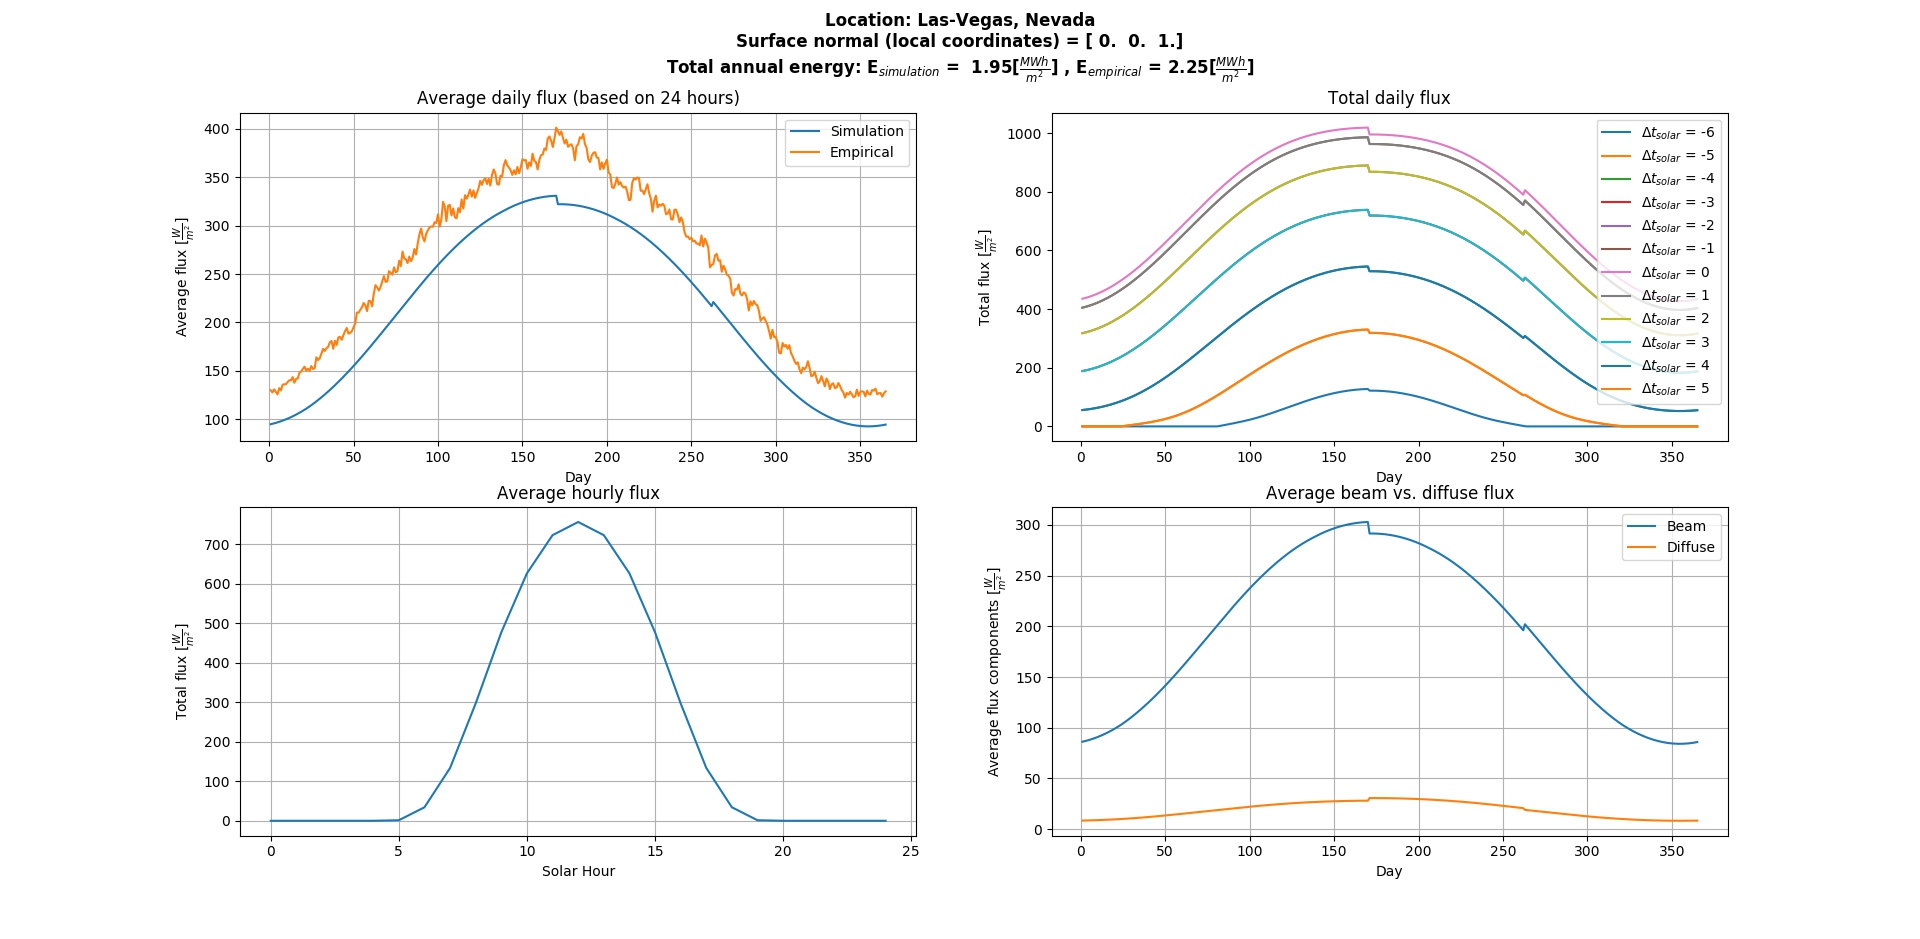
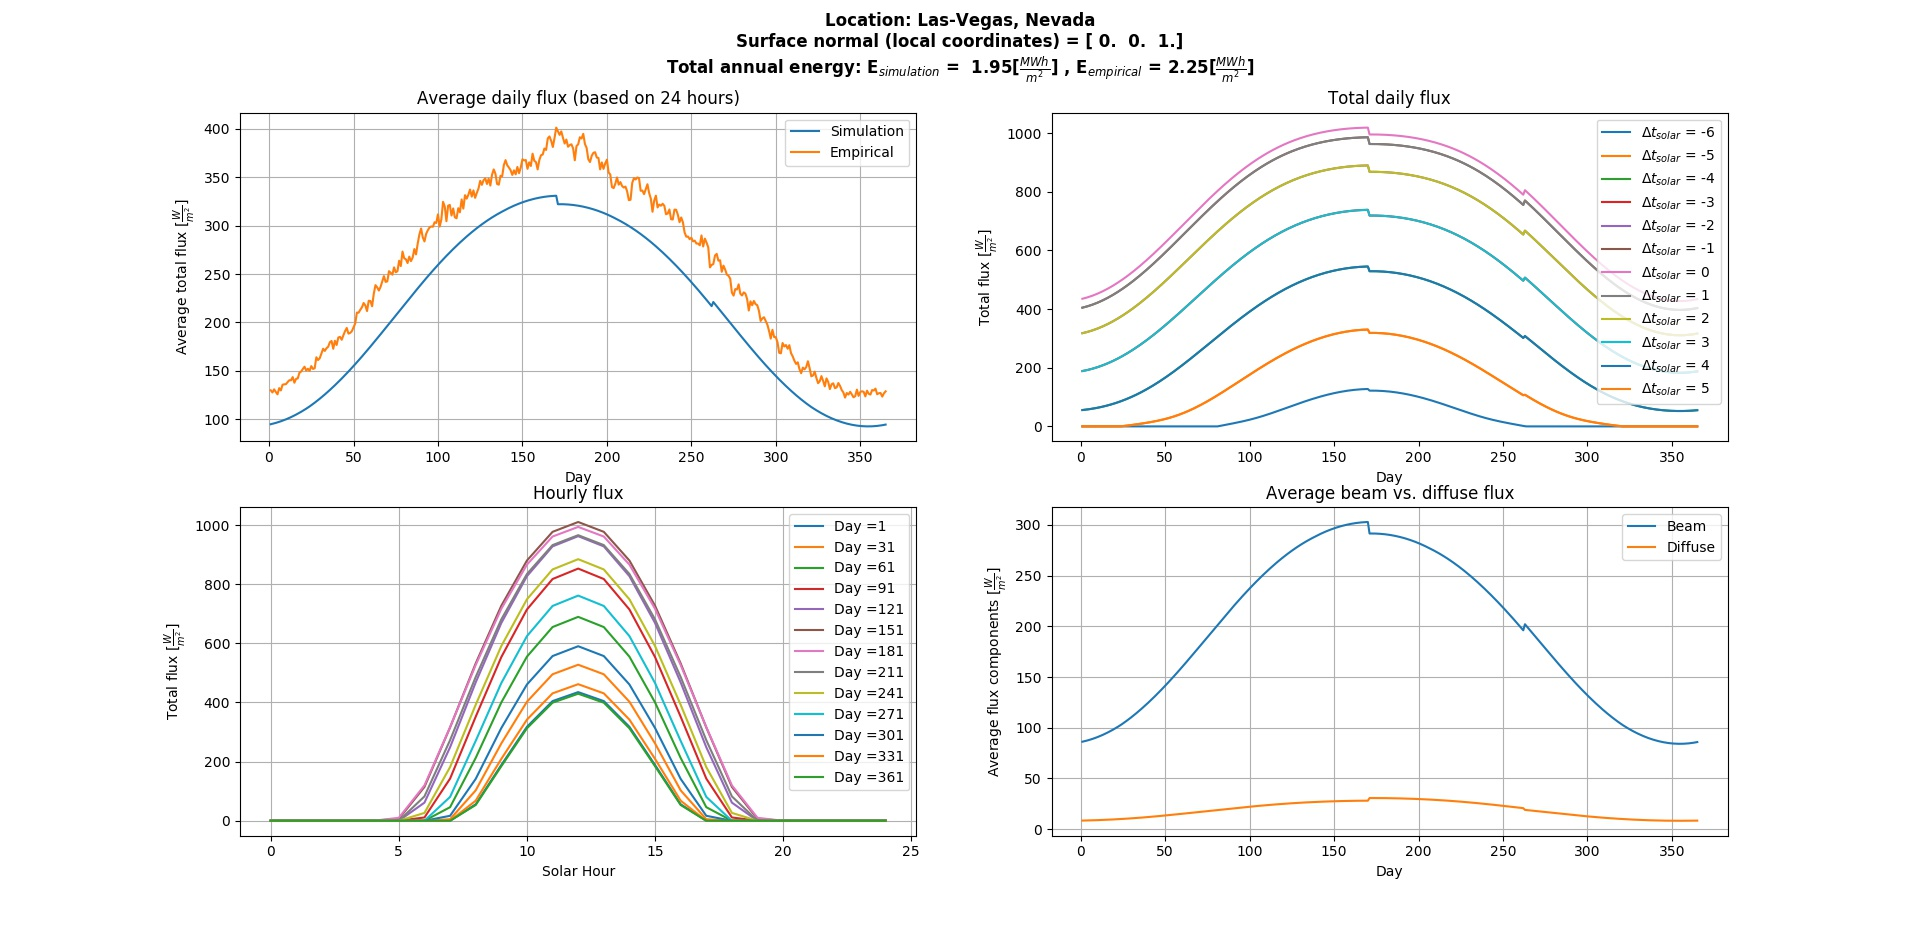
Changed the hourly plot from average to real-time (average has no meaning since the change is large throughout the year)

diff --git a/model_engine.py b/model_engine.py
@@ -115,7 +115,7 @@ def plotter(days,hours,location_name,surf_normal,Gtot,Gav_day,Gb_av,Gd_av,Gav_em
     ax1.plot(days,Gav_day, label = "Simulation")
     ax1.plot(days,Gav_emp, label = "Empirical") #Multiplting since the eimpirical averaging is for 24 hours
     ax1.set_xlabel("Day")
-    ax1.set_ylabel("Average flux ["+r'$\frac{W}{m^2}$'+"]")
+    ax1.set_ylabel("Average total flux ["+r'$\frac{W}{m^2}$'+"]")
     ax1.set_title("Average daily flux (based on 24 hours)")
     ax1.legend()
     ax1.grid()
@@ -130,11 +130,11 @@ def plotter(days,hours,location_name,surf_normal,Gtot,Gav_day,Gb_av,Gd_av,Gav_em
         ax2.grid()
     
     ax3 = fig1.add_subplot(223)
-    
-    ax3.plot(hours,Gav_hr)
+    for i in range(0,len(days),30):
+        ax3.plot(hours,Gtot[i,:], label ="Day ="+str(days[i]))
     ax3.set_xlabel("Solar Hour")
     ax3.set_ylabel("Total flux ["+r'$\frac{W}{m^2}$'+"]")
-    ax3.set_title("Average hourly flux")
+    ax3.set_title("Hourly flux")
     ax3.legend()
     ax3.grid()
     
